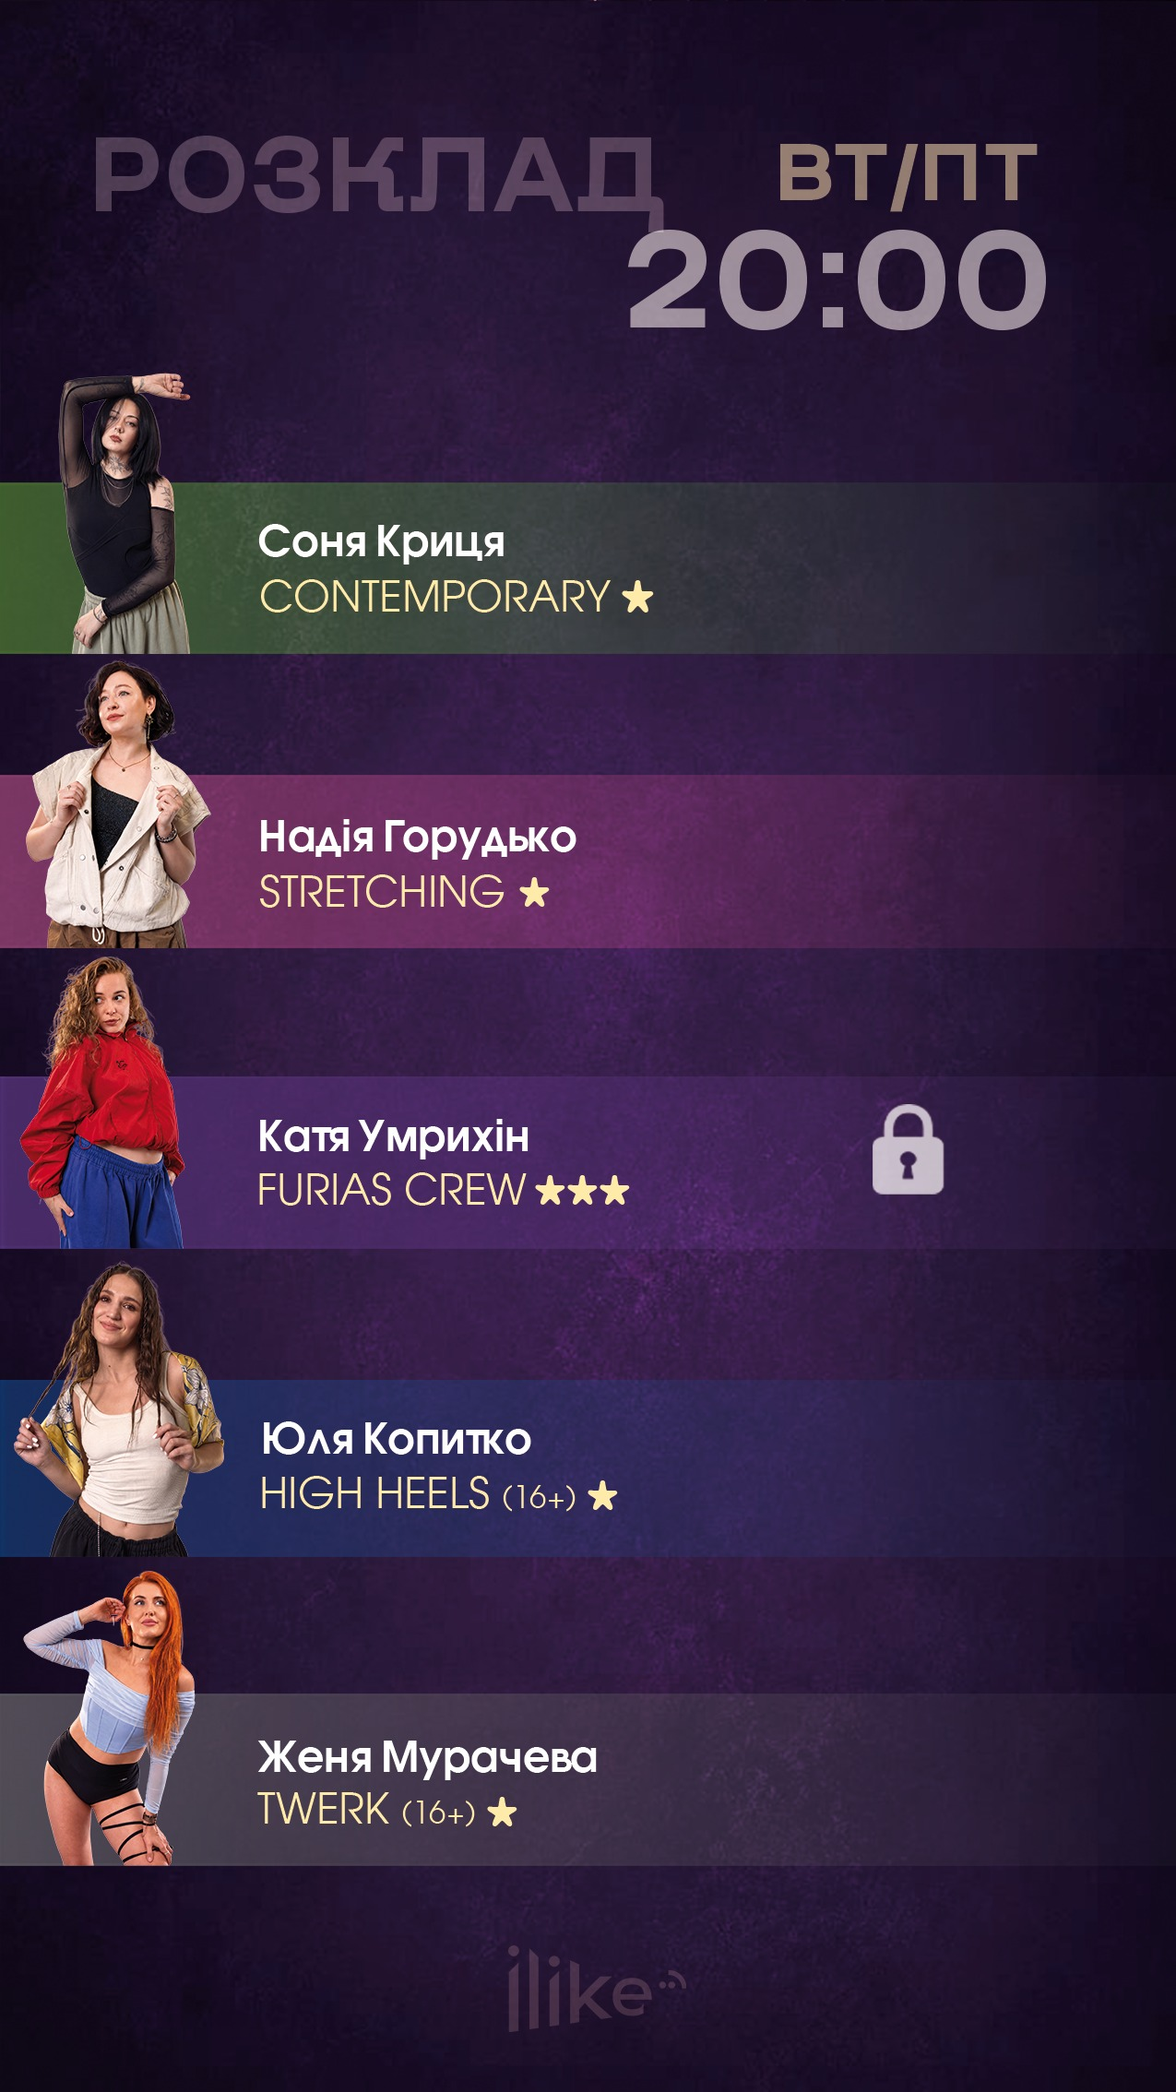
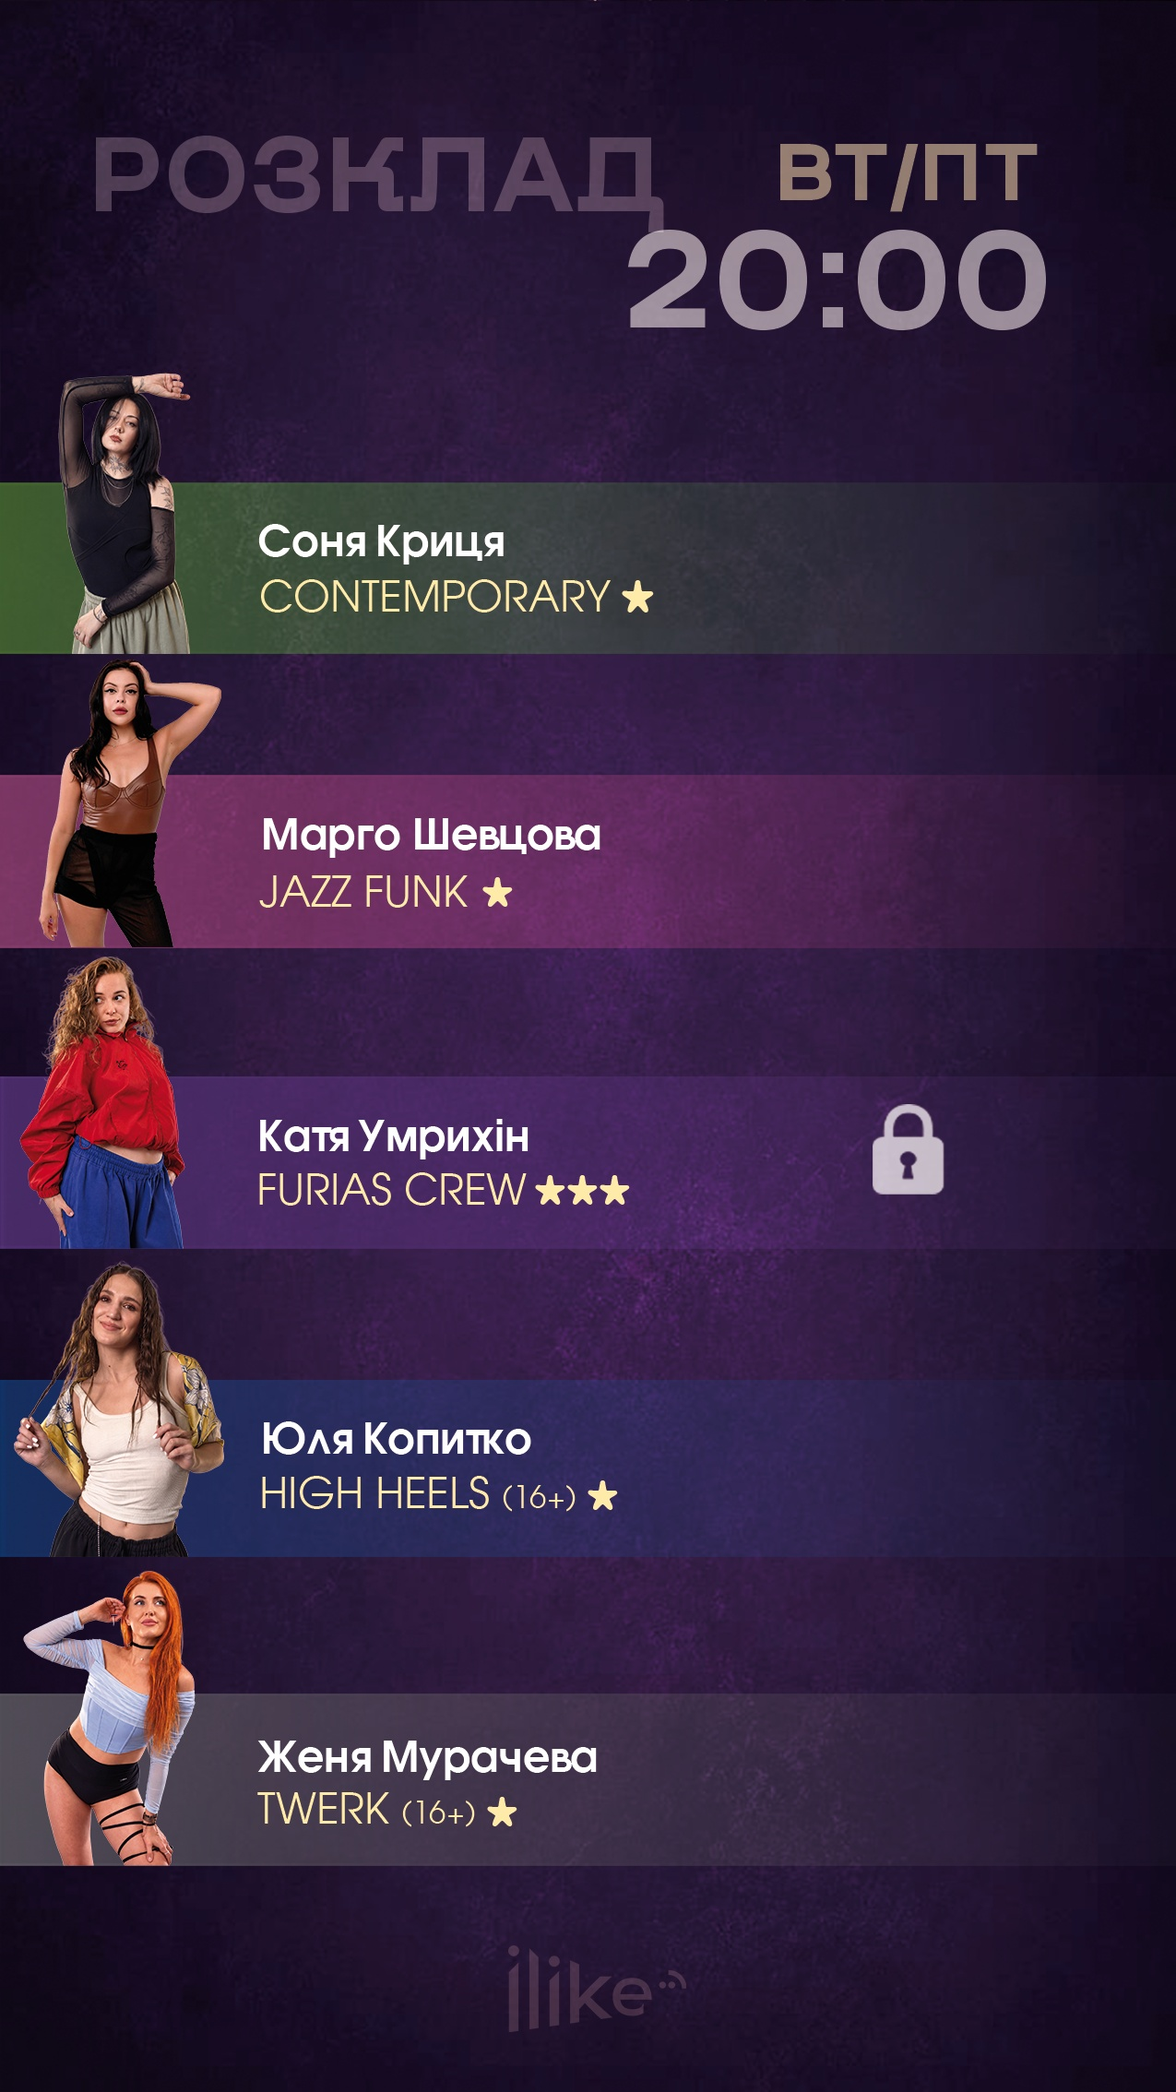
Оновити склад і макети за листопадовими шаблонами, додати групи Шевцової Марго
Нові зали і стилі, прибрані групи Мисько (Пн-Чт 20:00), Нетлюх (Вт-Пт 18:00)
та Горудько Stretching, нові порядки рядків у сторіс, усі 8 шаблонів замінені.

Changed region(s): [[0.0306, 0.3086, 0.1835, 0.463], [0.2141, 0.3704, 0.52, 0.4321]]

diff --git a/bot/config.py b/bot/config.py
@@ -184,11 +184,11 @@ SCHEDULE = [
     {"day_pattern": "mon_thu", "time": "16:30", "choreographer": "Копитко Юля",
      "style": "Street Dance (6-11)", "level": 2, "hall": "purple", "locked": True},
     {"day_pattern": "mon_thu", "time": "17:00", "choreographer": "Росінська Віка",
-     "style": "Choreography (12-14)", "level": 1, "hall": "green", "start_date": "2026-08-01"},
+     "style": "Choreography (12-14)", "level": 1, "hall": "white", "start_date": "2026-08-01"},
     {"day_pattern": "mon_thu", "time": "17:00", "choreographer": "Купецька Соня",
      "style": "Street Dance (6-9)", "level": 1, "hall": "blue"},
     {"day_pattern": "mon_thu", "time": "17:00", "choreographer": "Скороділкін Саша",
-     "style": "Contemporary (6-9)", "level": 1, "hall": "white", "start_date": "2026-09-14"},
+     "style": "Contemporary (6-9)", "level": 1, "hall": "green", "start_date": "2026-09-14"},
     {"day_pattern": "mon_thu", "time": "18:00", "choreographer": "Купецька Соня",
      "style": "Choreography", "level": 1, "hall": "pink"},
     {"day_pattern": "mon_thu", "time": "18:00", "choreographer": "Росінська Віка",
@@ -200,7 +200,7 @@ SCHEDULE = [
     {"day_pattern": "mon_thu", "time": "18:00", "choreographer": "Скороділкін Саша",
      "style": "Contemporary", "level": 1, "hall": "white", "start_date": "2026-09-14"},
     {"day_pattern": "mon_thu", "time": "19:00", "choreographer": "Бучковська Юлія",
-     "style": "Twerk (16+)", "level": 1, "hall": "blue"},
+     "style": "Twerk (16+)", "level": 1, "hall": "pink"},
     {"day_pattern": "mon_thu", "time": "19:00", "choreographer": "Сковира Віка",
      "style": "High Heels (16+)", "level": 1, "hall": "white"},
     {"day_pattern": "mon_thu", "time": "19:00", "choreographer": "Росінська Віка",
@@ -208,15 +208,15 @@ SCHEDULE = [
     {"day_pattern": "mon_thu", "time": "19:00", "choreographer": "Медвідь Богдан",
      "style": "Contemporary", "level": 1, "hall": "purple"},
     {"day_pattern": "mon_thu", "time": "19:00", "choreographer": "Острянко Нана",
-     "style": "Jazz Funk", "level": 1, "hall": "pink"},
+     "style": "Jazz Funk", "level": 1, "hall": "blue"},
     {"day_pattern": "mon_thu", "time": "20:00", "choreographer": "Сковира Віка",
      "style": "Jazz Funk", "level": 1, "hall": "pink"},
     {"day_pattern": "mon_thu", "time": "20:00", "choreographer": "Копитко Юля",
      "style": "Choreography", "level": 1, "hall": "blue"},
     {"day_pattern": "mon_thu", "time": "20:00", "choreographer": "Острянко Нана",
      "style": "V.L.C.ARTIST CREW", "level": 3, "hall": "purple", "locked": True},
-    {"day_pattern": "mon_thu", "time": "20:00", "choreographer": "Мисько Аня",
-     "style": "High Heels (16+)", "level": 1, "hall": "white"},
+    {"day_pattern": "mon_thu", "time": "20:00", "choreographer": "Шевцова Марго",
+     "style": "High Heels", "level": 2, "hall": "white"},
     {"day_pattern": "mon_thu", "time": "20:00", "choreographer": "Кулик Дмитро",
      "style": "Jazz Funk", "level": 2, "hall": "green"},
 
@@ -226,15 +226,13 @@ SCHEDULE = [
     {"day_pattern": "tue_fri", "time": "17:00", "choreographer": "Відар Поліна",
      "style": "Street Dance (8-11)", "level": 1, "hall": "green"},
     {"day_pattern": "tue_fri", "time": "17:00", "choreographer": "Копитко Юля",
-     "style": "Street Dance (6-8)", "level": 1, "hall": "white", "start_date": "2026-08-01"},
+     "style": "Street Dance (6-11)", "level": 1, "hall": "white", "start_date": "2026-08-01"},
     {"day_pattern": "tue_fri", "time": "17:00", "choreographer": "Нікітченко Ліля",
-     "style": "K-Pop / Hip-Hop", "level": 1, "hall": "pink"},
+     "style": "K-Pop (12-14)", "level": 1, "hall": "pink"},
     {"day_pattern": "tue_fri", "time": "17:00", "choreographer": "Умрихін Катя",
      "style": "Street Dance (9-11)", "level": 1, "hall": "blue", "start_date": "2026-09-01"},
     {"day_pattern": "tue_fri", "time": "18:00", "choreographer": "Відар Поліна",
      "style": "Choreography Juniors (12-14)", "level": 2, "hall": "white", "locked": True},
-    {"day_pattern": "tue_fri", "time": "18:00", "choreographer": "Нетлюх Юля",
-     "style": "High Heels", "level": 2, "hall": "purple"},
     {"day_pattern": "tue_fri", "time": "18:00", "choreographer": "Мисько Аня",
      "style": "Jazz-Funk", "level": 2, "hall": "green"},
     {"day_pattern": "tue_fri", "time": "18:00", "choreographer": "Умрихін Катя",
@@ -248,17 +246,17 @@ SCHEDULE = [
     {"day_pattern": "tue_fri", "time": "19:00", "choreographer": "Ярцева Лера",
      "style": "Choreography", "level": 1, "hall": "green"},
     {"day_pattern": "tue_fri", "time": "19:00", "choreographer": "Острянко Нана",
-     "style": "Hip-Hop", "level": 1, "hall": "pink"},
+     "style": "Jazz Funk", "level": 1, "hall": "pink"},
     {"day_pattern": "tue_fri", "time": "19:00", "choreographer": "Умрихін Катя",
-     "style": "Jazz-Funk (16+)", "level": 2, "hall": "white", "start_date": "2026-07-27"},
+     "style": "Jazz Funk", "level": 2, "hall": "white", "start_date": "2026-07-27"},
     {"day_pattern": "tue_fri", "time": "20:00", "choreographer": "Умрихін Катя",
      "style": "FURIAs crew", "level": 3, "hall": "purple", "locked": True},
-    {"day_pattern": "tue_fri", "time": "20:00", "choreographer": "Горудько Надя",
-     "style": "Stretching", "level": 1, "hall": "pink"},
+    {"day_pattern": "tue_fri", "time": "20:00", "choreographer": "Шевцова Марго",
+     "style": "Jazz Funk", "level": 1, "hall": "pink"},
     {"day_pattern": "tue_fri", "time": "20:00", "choreographer": "Копитко Юля",
-     "style": "High Heels", "level": 1, "hall": "blue"},
+     "style": "High Heels (16+)", "level": 1, "hall": "blue"},
     {"day_pattern": "tue_fri", "time": "20:00", "choreographer": "Мурачева Женя",
-     "style": "Twerk", "level": 1, "hall": "white"},
+     "style": "Twerk (16+)", "level": 1, "hall": "white"},
     {"day_pattern": "tue_fri", "time": "20:00", "choreographer": "Соня Криця",
      "style": "Contemporary", "level": 1, "hall": "green"},
 

diff --git a/bot/story_layout.py b/bot/story_layout.py
@@ -138,7 +138,7 @@ STORY_LAYOUTS = {
     },
     ("tue_fri", "18:00"): {
         "file": "tuefri_18_00.jpg",
-        "rows": ["Мисько Аня", "Федишин Остап", "Нетлюх Юля", "Умрихін Катя", "Відар Поліна"],
+        "rows": ["Мисько Аня", "Федишин Остап", "Умрихін Катя", "Відар Поліна"],
     },
     ("tue_fri", "19:00"): {
         "file": "tuefri_19_00.jpg",
@@ -146,7 +146,7 @@ STORY_LAYOUTS = {
     },
     ("tue_fri", "20:00"): {
         "file": "tuefri_20_00.jpg",
-        "rows": ["Соня Криця", "Горудько Надя", "Умрихін Катя", "Копитко Юля", "Мурачева Женя"],
+        "rows": ["Соня Криця", "Шевцова Марго", "Умрихін Катя", "Копитко Юля", "Мурачева Женя"],
     },
     ("mon_thu", "17:00"): {
         "file": "17_00.jpg",
@@ -154,7 +154,7 @@ STORY_LAYOUTS = {
         # показана в цьому кадрі як "з 16:30 (тренування 1,5 год)"; знаходиться
         # через db.get_locked_group_by_name_pattern (ігнорує час, шукає закриту
         # групу за іменем на цей день - див. build_story_image).
-        "rows": ["Росінська Віка", "Копитко Юля", "Купецька Соня", "Скороділкін Саша"],
+        "rows": ["Скороділкін Саша", "Копитко Юля", "Купецька Соня", "Росінська Віка"],
     },
     ("mon_thu", "18:00"): {
         "file": "18_00.jpg",
@@ -162,11 +162,11 @@ STORY_LAYOUTS = {
     },
     ("mon_thu", "19:00"): {
         "file": "19_00.jpg",
-        "rows": ["Росінська Віка", "Острянко Нана", "Медвідь Богдан", "Бучковська Юлія", "Сковира Віка"],
+        "rows": ["Росінська Віка", "Бучковська Юлія", "Медвідь Богдан", "Острянко Нана", "Сковира Віка"],
     },
     ("mon_thu", "20:00"): {
         "file": "20_00.jpg",
-        "rows": ["Кулик Дмитро", "Сковира Віка", "Острянко Нана", "Копитко Юля", "Мисько Аня"],
+        "rows": ["Кулик Дмитро", "Сковира Віка", "Острянко Нана", "Копитко Юля", "Шевцова Марго"],
     },
     ("wed_only", "18:00"): {
         "file": "wed_18_00.jpg",

diff --git a/SESSION_LOG.md b/SESSION_LOG.md
@@ -83,7 +83,7 @@
 - Скріншоти на робочому столі: 163 файли переніс у Кошик (не `rm`). Перша спроба через AppleScript з відносними шляхами не спрацювала (нічого не переміщено), друга з абсолютними шляхами спрацювала.
 - Remote Control увімкнено, чат видно з телефону.
 
-### Листопад 2026: нові шаблони в папці "Розклад шаблон" (аналіз, ще не внесено)
+### Листопад 2026: нові шаблони в папці "Розклад шаблон" (внесено, чекає деплою)
 Всі 8 шаблонів замінені 16.11. Висновки аналізу:
 - Нова хореографка: Шевцова Марго (Пн-Чт 20:00 High Heels ★★, Вт-Пт 20:00 Jazz Funk ★).
 - Нетлюх Юля: у шаблонах нема, схоже звільнилась (чекає підтвердження власника).
@@ -91,6 +91,15 @@
 - Змінені назви: Копитко Вт-Пт 17:00 (6-11), Нікітченко "K-Pop (12-14)", Острянко Вт-Пт 19:00 Jazz Funk, Умрихін Вт-Пт 19:00 без 16+, Копитко Вт-Пт 20:00 High Heels (16+), Мурачева Twerk (16+).
 - Змінені зали (за кольором смуг, припущення): Пн-Чт 17:00 Скороділкін, Росінська, Копитко 16:30; Пн-Чт 19:00 Бучковська, Острянко.
 - Порядок рядків у `story_layout.py` змінився для Пн-Чт 17/19/20 і Вт-Пт 18/20. Вт-Пт 18:00 тепер має 4 рядки, третій рядок на ~15px нижче, четвертий на ~25px вище за старі межі, потрібне пере-вимірювання цього слота.
+
+Що внесли після затвердження власником (картинки "все добре"):
+- `config.py`: Шевцова Марго в `CHOREOGRAPHERS` і дві її групи (Пн-Чт 20:00 High Heels ★★ білий зал, Вт-Пт 20:00 Jazz Funk ★ рожевий). Прибрано групи Мисько Пн-Чт 20:00, Нетлюх Вт-Пт 18:00, Горудько Stretching Вт-Пт 20:00. Ім'я Нетлюх у `CHOREOGRAPHERS` лишили до підтвердження власника. Зали й назви стилів за шаблонами.
+- `story_layout.py`: нові `rows` для Пн-Чт 17/19/20 і Вт-Пт 18/20. `_SLOT_BOUNDS` не чіпали.
+- Усі 8 файлів у `assets/story_templates` замінені новими експортами дизайнера (1275x2268).
+- Помилка в аналізі: спершу написав, що для Вт-Пт 18:00 треба перемірювати межі, бо імена рядків зсунулись на 15-25px. Це хибний висновок. Межі прив'язані до кольорових смуг, а смуги стоять на стандартних місцях (різниця до 8px від затверджених меж). Тож межі лишили. Міряти положення по тексту імені для меж не можна, лише по смугах (колір на x=6..12 по вертикалі).
+- Колір смуги дорівнює залу. Зали в слоті різні. На 17:00 Пн-Чт та 18:00 Вт-Пт дизайнер пропустив одну смугу (4 рядки замість 5), тому порядок кольорів не завжди зелений, рожевий, фіолетовий, синій, білий.
+- Текстовий розклад для адміністраторки Наталі зібраний з нових зображень (зали за смугами, статуси нейтральні "можна приєднатися", закриті групи 🔒). Власник пересилає його на затвердження.
+- Для Марго використовуються ті самі опитування, що й для інших, окремої логіки нема. Вона з'явиться в переліку хореографів у Telegram через 1-2 хвилини після деплою, потім їй треба написати боту `/start` і вибрати своє ім'я.
 
 ## Що не підійшло (короткий список)
 - Єдина формула меж рядків для всіх слотів.
@@ -105,6 +114,6 @@
 
 ## Відкриті питання
 - Чи звільнилась Нетлюх Юля (для видалення з `CHOREOGRAPHERS`).
-- Внести правки з листопадових шаблонів (список вище), задеплоїти, запустити `/syncroster`, оновити Google-документ.
+- Задеплоїти правки з листопадових шаблонів (потрібен свіжий GitHub-токен), запустити `/syncroster`, оновити Google-документ (зали, склад, статуси).
 - Шевцова Марго має написати боту `/start` (її Telegram: @marguiiii). Бот прив'язує людей не за нікнеймом, а за вибором імені у списку після `/start`, тому нікнейм потрібен лише власнику, щоб їй написати.
 - Нікітченко, Кулик, Нетлюх часто не відповідають на опитування, власнику варто нагадати їм особисто.
